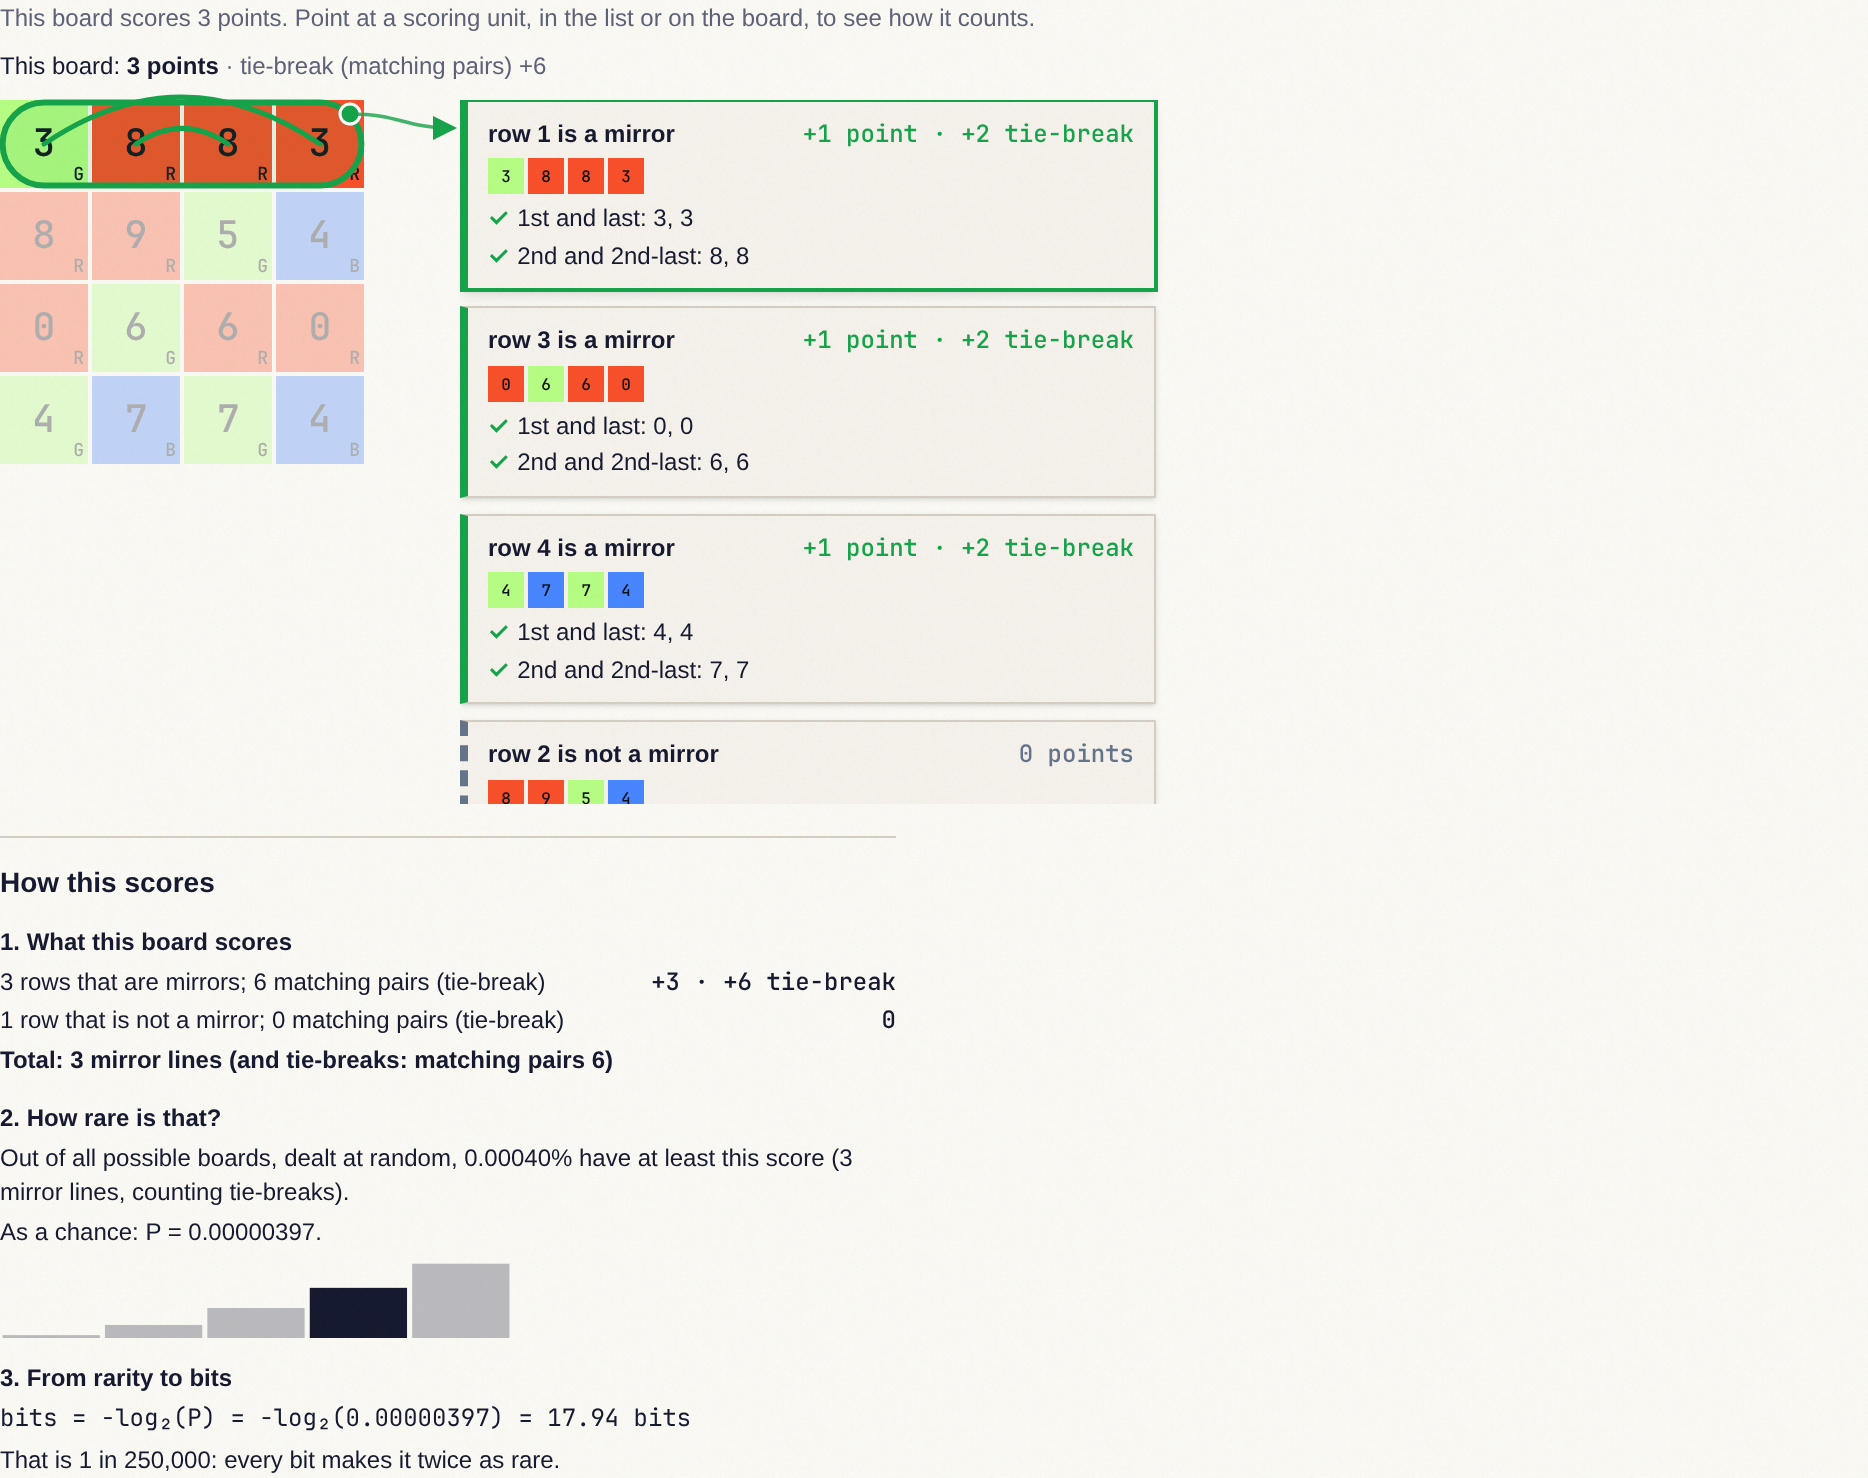
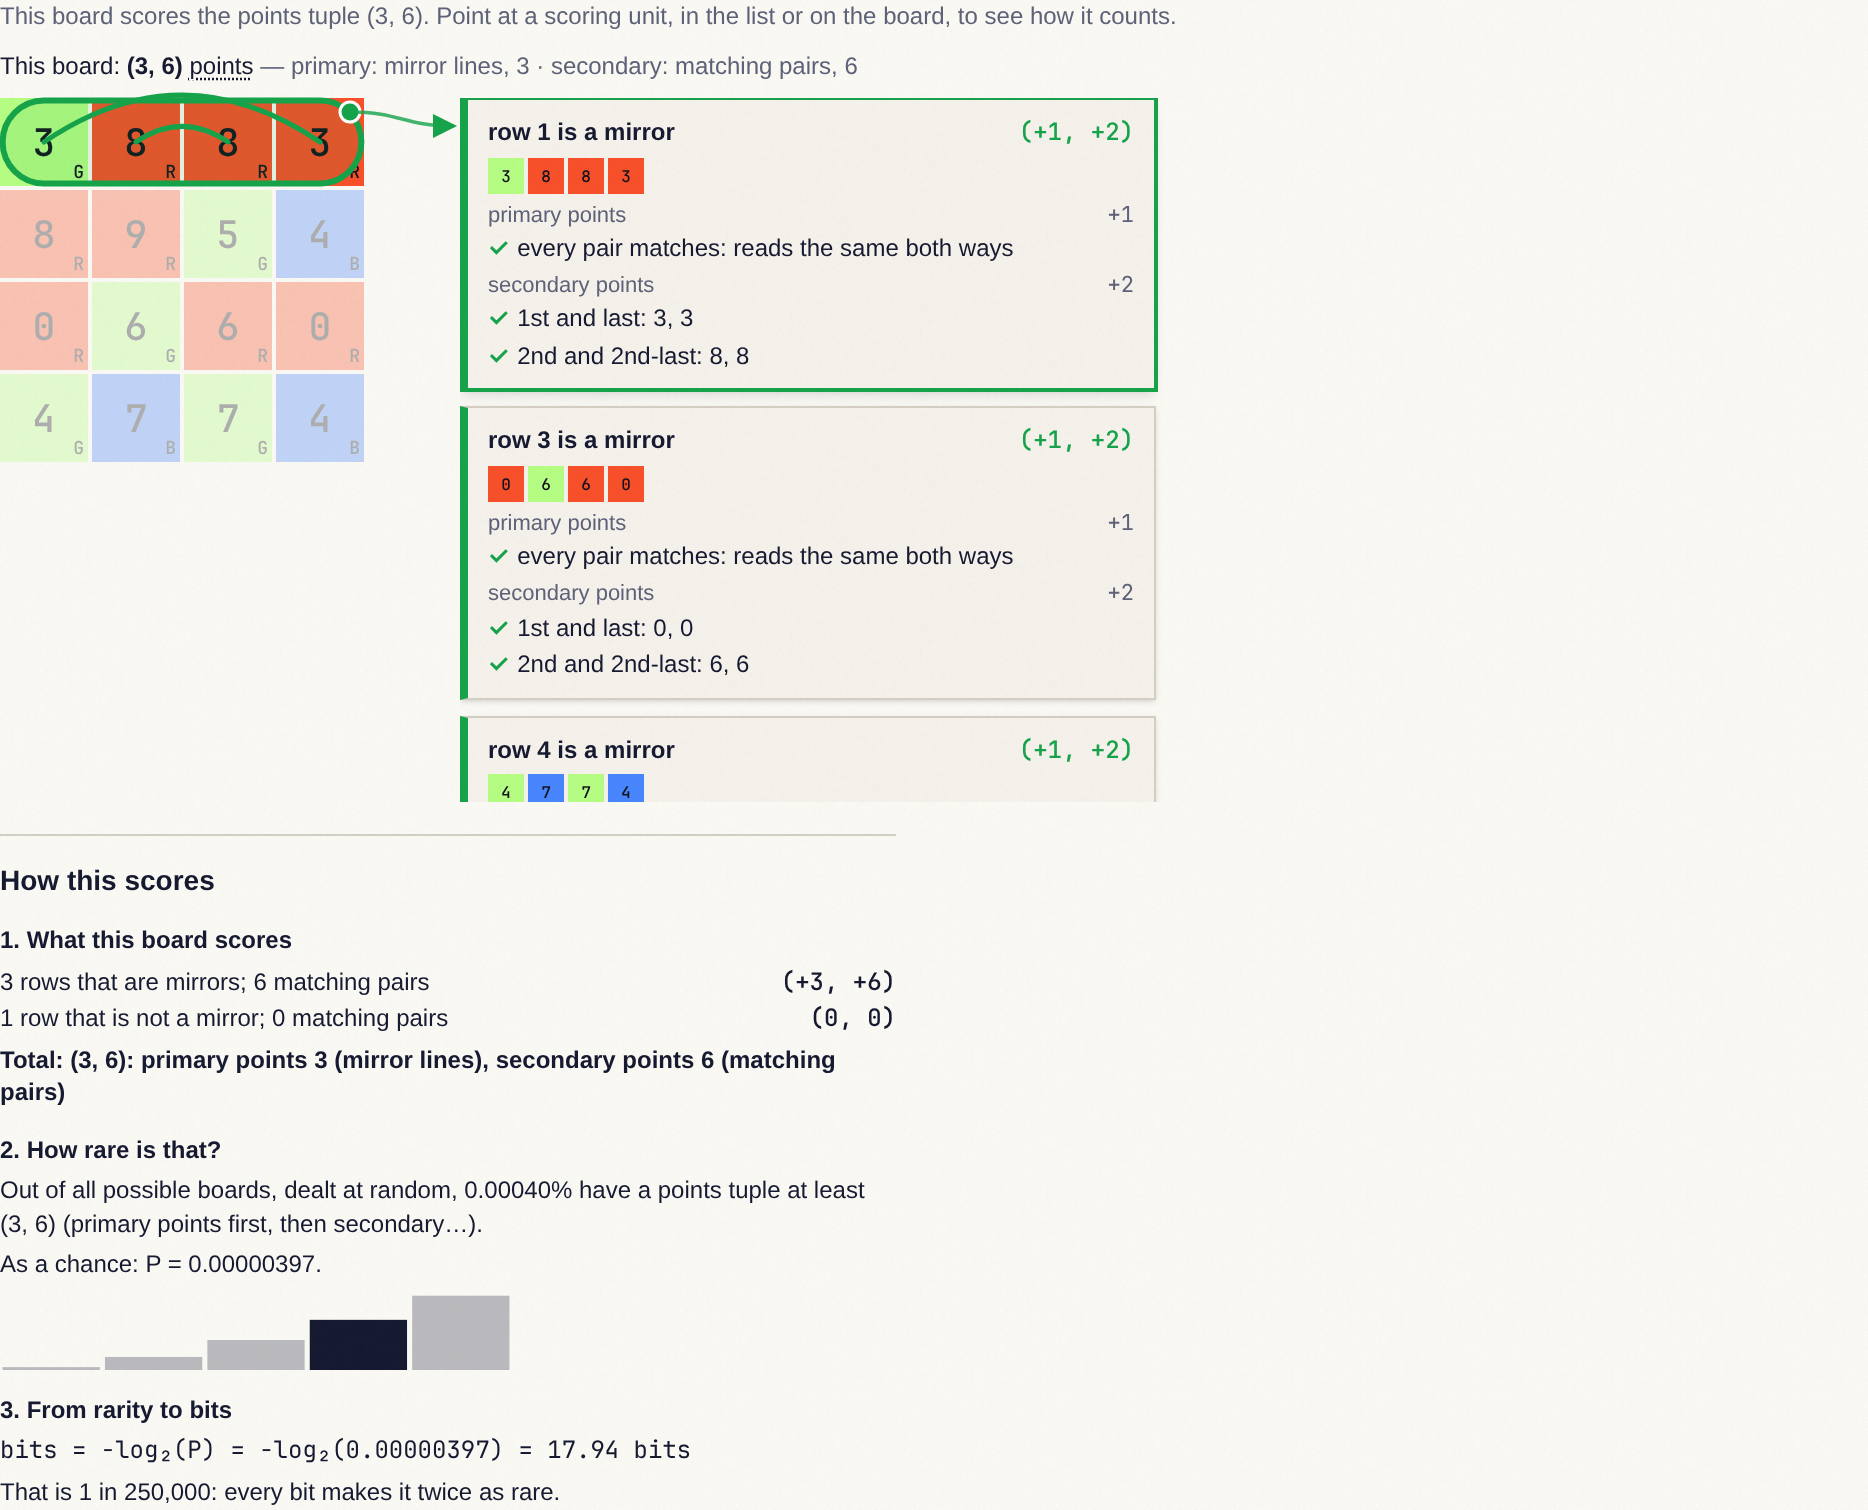
Points tuples: glossary entry within its length, linked from multi-tier cards; captions and totals state the tuple; screenshots regenerated
Claude-Session: https://claude.ai/code/session_0119hWTXb7nWu2F4Fp2GSwu6

diff --git a/lib/object-views/src/card.tsx b/lib/object-views/src/card.tsx
@@ -6,6 +6,7 @@ import type { GridSettings } from "./registry.ts";
 import type { GoalExplainer } from "@workspace/game-utilities";
 import { GridObject } from "./views.tsx";
 import { GoalBoard } from "./explain/GoalBoard.tsx";
+import { Term } from "@workspace/ui-kit";
 
 export interface UtilityCardLike {
   familyId: string;
@@ -86,7 +87,8 @@ export function UtilityCardView({ card, uses, grid, goal, sourceOpen = false }: 
       <div>
         <p className="text-xl font-semibold leading-tight" data-testid="utility-card-name"><span aria-hidden>{card.emoji} </span>{card.name}</p>
         {card.theme && <p className="text-xs text-muted-foreground">{card.theme}</p>}
-        <p className="mt-2 text-sm leading-relaxed" data-testid="text-utility-summary">{card.summary}</p>
+        <p className="mt-2 text-sm leading-relaxed" data-testid="text-utility-summary">{card.summary}
+          {/\bprimary points?\b/.test(card.summary) && <> <span className="text-muted-foreground">(<Term id="points-tuple">how points tuples compare</Term>)</span></>}</p>
         {goal && grid && (goal.rich || !card.example) ? <GoalExampleView goal={goal} grid={grid} /> : card.example && <CardExample example={card.example} grid={grid} />}
         <p className="mt-2 text-xs flex flex-wrap items-center gap-1.5"><span className="text-muted-foreground">uses:</span><BadgeChips badges={badges} testId="utility-card-uses" /></p>
         <Source text={card.source} language={card.language} testId="text-utility-source" open={sourceOpen} />

diff --git a/lib/ui-kit/src/glossary.ts b/lib/ui-kit/src/glossary.ts
@@ -12,7 +12,7 @@ export const GLOSSARY = {
   bits: { term: "Bits", gloss: "How rare an object is by your rule: 1 in 8 random objects as good means 3 bits." },
   "others-care": { term: "Others' care", gloss: "The other gods' bits for an object added together (never below 0): the only thing you learn about their rules." },
   payoff: { term: "Payoff", gloss: "Your bits × others' care for one object; your score is the sum over all live objects." },
-  "points-tuple": { term: "Points tuple", gloss: "What a rule scores a board: primary points, then secondary points (and tertiary…), like (3, −5). Tuples compare primary points first, then secondary, and so on; your bits are how rare your tuple is." },
+  "points-tuple": { term: "Points tuple", gloss: "A rule's score: primary points, then secondary (tertiary…), like (3, −5). Compared primary first, then secondary; your bits are its rarity." },
   salience: { term: "Salience", gloss: "Everyone's bits for an object added up: public, so you can see what the table cares about." },
   agent: { term: "Agent", gloss: "Your small program, agent(obj), which returns up to 16 moves when the world picks it." },
   summon: { term: "Summon", gloss: "Paying energy to put an agent into the world; the price is the program's description bits (shorter is cheaper)." },

diff --git a/lib/game-utilities/src/explain/index.ts b/lib/game-utilities/src/explain/index.ts
@@ -14,6 +14,7 @@
 import { seededRng, type Instantiation, type ObjectValue, type Rng } from "@workspace/game-types";
 import { context, evaluator, family, paramsKey, upgradeParams, type Draw } from "../catalog.ts";
 import { points as pointsWord } from "../families/say.ts";
+import { tupleText } from "../tuples.ts";
 import { gridSpec, wire, type GridSpec } from "../families/grid/_util.ts";
 import type { Ordinal } from "../types.ts";
 import { boardOf, readBoard, type Board } from "./board.ts";
@@ -195,7 +196,8 @@ function illumination(l: Lens, p: Draw["params"], b: Board): number {
 
 function caption(ordinal: Ordinal | null, rich: boolean): string {
   const ord = ordinal === null ? null : asArray(ordinal);
-  const head = ord ? `This board scores ${pointsWord(ord[0])}.` : "An example board.";
+  // A rule with several tiers states the whole points tuple; a one-tier rule its points.
+  const head = !ord ? "An example board." : ord.length > 1 ? `This board scores the points tuple ${tupleText(ord)}.` : `This board scores ${pointsWord(ord[0])}.`;
   return rich ? `${head} Point at a scoring unit, in the list or on the board, to see how it counts.` : head;
 }
 

diff --git a/artifacts/player-web/e2e/annotations.ts b/artifacts/player-web/e2e/annotations.ts
@@ -61,7 +61,7 @@ try {
   // Points tuples: a two-tier rule's boxes show each tier's derivation, the impact as a tuple, and the total names each tier.
   {
     const chess = page.locator("[data-testid=example-chessmaster]");
-    assert.match(await chess.locator("[data-testid=goal-board-total]").innerText(), /^This board: \(\d+, \d+\) points — primary chessboards \d+ · secondary places where/);
+    assert.match(await chess.locator("[data-testid=goal-board-total]").innerText(), /^This board: \(\d+, \d+\) points — primary: chessboards, \d+ · secondary: places where/);
     const impacts = await chess.locator("[data-testid=goal-unit-impact]").allInnerTexts();
     assert.ok(impacts.every(t => /^\([+−]?\d+, [+−]?\d+\)$/.test(t)), `every impact is a 2-tuple (${impacts.slice(0, 3)})`);
     const seam = chess.locator('[data-testid=goal-unit][data-part^="seam:"]').first();

diff --git a/lib/ui-kit/test/commands.test.ts b/lib/ui-kit/test/commands.test.ts
@@ -31,8 +31,9 @@ test("availability follows the audience; search ranks titles first and hides wha
   assert.ok(searchCommands(commands, "", member).every(r => r.availability.ok), "the empty query shows only what is available");
 });
 
-test("the glossary has the 15 game terms plus the client's own words", () => {
-  assert.equal(GLOSSARY_IDS.length, 24);
+test("the glossary has the 16 game terms plus the client's own words", () => {
+  assert.equal(GLOSSARY_IDS.length, 25);
+  assert.ok(GLOSSARY_IDS.includes("points-tuple"), "points tuples are explained once, in the glossary");
   for (const id of GLOSSARY_IDS) assert.ok(GLOSSARY[id].gloss.length > 20 && GLOSSARY[id].gloss.length <= 160, id);
   assert.ok(GLOSSARY_IDS.includes("payoff") && GLOSSARY_IDS.includes("panel") && GLOSSARY_IDS.includes("pane") && GLOSSARY_IDS.includes("palette"));
 });

diff --git a/lib/object-views/src/explain/GoalBoard.tsx b/lib/object-views/src/explain/GoalBoard.tsx
@@ -210,7 +210,7 @@ export function GoalBoard({ goal, value, grid, caption, changed, selected: chose
   const tuple = rich && ord ? ord : scoreArr;
   const total: ReactNode = tuple
     ? <>This board: <b>{tupleText(tuple)}</b> <Term id="points-tuple">points</Term>
-      {rich && explanation && <span className="text-muted-foreground"> — {explanation.components.map((name, k) => `${explanation.components.length > 1 ? `${tierName(k)} ` : ""}${name} ${tuple[k]}`).join(" · ")}</span>}</>
+      {rich && explanation && <span className="text-muted-foreground"> — {explanation.components.map((name, k) => `${explanation.components.length > 1 ? `${tierName(k)}: ` : ""}${name}, ${tupleText([tuple[k]]).slice(1, -1)}`).join(" · ")}</span>}</>
     : null;
   const tone = selected ? toneOf(selected.points) : "zero";
 

diff --git a/lib/game-utilities/test/explain.test.ts b/lib/game-utilities/test/explain.test.ts
@@ -267,7 +267,7 @@ test("goal examples: deterministic, in the room's own shape, verified, and they 
       const tones = new Set(e.parts.map(x => toneOf(x.points)));
       assert.ok(tones.has("gain"), `${l.familyId} ${paramsKey(p)}: the example scores something (${a.value})`);
       assert.ok(tones.size >= 2, `${l.familyId} ${paramsKey(p)}: the example shows a piece that doesn't score too`);
-      assert.match(a.caption, /^This board scores \d+ points?/);
+      assert.match(a.caption, /^This board scores (\d+ points?|the points tuple \(\d+(, −?\d+)+\))\./, `${l.familyId}: the caption states the score, as a tuple when the rule has several tiers`);
     }
   }
 });

diff --git a/lib/game-utilities/src/explain/lenses/magic-accountant.ts b/lib/game-utilities/src/explain/lenses/magic-accountant.ts
@@ -11,7 +11,7 @@ export const magicAccountant = lens<P>({
     unit: ["line", "lines"],
     items: tally(parts, [
       { of: t => t.points[0] > 0, text: n => `${count(n, "line")} adding up to ${p.target}` },
-      { of: () => true, text: (n, pts) => `${count(n, "line")} that miss ${p.target}, ${-pts[1]} away in all` },
+      { of: () => true, text: (n, pts) => `${count(n, "line")} that ${n === 1 ? "misses" : "miss"} ${p.target}, ${-pts[1]} away in all` },
     ]),
   }),
   parts: (p, b) => {
